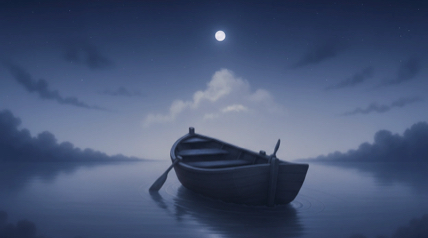
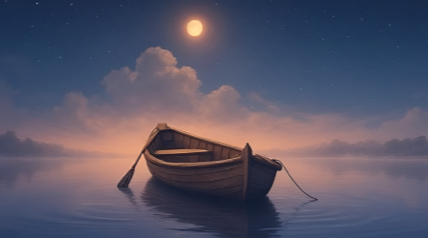
Update

diff --git a/programme.html b/programme.html
@@ -20,36 +20,53 @@ permalink: /programme/
 
 <section class="section etapes">
   <div class="container">
-    <div class="columns is-multiline">
-      <div class="column is-4 phase phase-separation">
-        <img class="has-rounded-corners-small"
-            src="/images/programme-separation.jpg"
-            srcset="/images/programme-separation.jpg, /images/programme-separation@2x.jpg 2x"
-            alt="La séparation, une barque s'éloigne">
-        <h5>La séparation</h5>
-      {% for etape in phase_1 %}
-        {% include bandeaux/etape.html etape=etape %}
-      {% endfor %}
+    <div class="box phase phase-separation">
+      <div class="columns is-multiline">
+        <div class="column is-one-third">
+          <h4>La séparation</h4>
+          <h5>Reconnaître le seuil et libérer ce qui retient</h5>
+          <p class="tags"><span class="tag is-white">Mois 1</span><span class="tag is-white">Étapes 1-2</span></p>
+        </div>
+        <div class="column is-two-third">
+          <div class="columns is-multiline">
+            {% for etape in phase_1 %}
+            <div class="column is-4">{% include bandeaux/etape.html etape=etape %}</div>
+            {% endfor %}
+          </div>
+        </div>
       </div>
-      <div class="column is-4 phase phase-passage">
-        <img class="has-rounded-corners-small"
-            src="/images/programme-passage.jpg"
-            srcset="/images/programme-passage.jpg, /images/programme-passage@2x.jpg 2x"
-            alt="Le passage, une silhouette avance dans la brume">
-        <h5>Le passage</h5>
-      {% for etape in phase_2 %}
-        {% include bandeaux/etape.html etape=etape %}
-      {% endfor %}
+    </div>
+
+    <div class="box phase phase-passage">
+      <div class="columns is-multiline">
+        <div class="column is-one-third">
+          <h4>Le passage</h4>
+          <h5>Traverser les profondeurs et accueillir l'ombre</h5>
+          <p class="tags"><span class="tag is-white">Mois 2-3</span><span class="tag is-white">Étapes 3-5</span></p>
+        </div>
+        <div class="column is-two-third">
+          <div class="columns is-multiline">
+            {% for etape in phase_2 %}
+            <div class="column is-4">{% include bandeaux/etape.html etape=etape %}</div>
+            {% endfor %}
+          </div>
+        </div>
       </div>
-      <div class="column is-4 phase phase-enracinement">
-        <img class="has-rounded-corners-small"
-            src="/images/programme-enracinement.jpg"
-            srcset="/images/programme-enracinement.jpg, /images/programme-enracinement@2x.jpg 2x"
-            alt="L'enracinement, un arbre déploie ses racines">
-        <h5>L'enracinement</h5>
-      {% for etape in phase_3 %}
-        {% include bandeaux/etape.html etape=etape %}
-      {% endfor %}
+    </div>
+
+    <div class="box phase phase-enracinement">
+      <div class="columns is-multiline">
+        <div class="column is-one-third">
+          <h4>L'enracinement</h4>
+          <h5>Unifier et stabiliser la transformation</h5>
+          <p class="tags"><span class="tag is-white">Mois 4</span><span class="tag is-white">Étapes 6-7</span></p>
+      </div>
+      <div class="column is-two-third">
+        <div class="columns is-multiline">
+        {% for etape in phase_3 %}
+          <div class="column is-4">{% include bandeaux/etape.html etape=etape %}</div>
+        {% endfor %}
+        </div>
       </div>
     </div>
   </div>

diff --git a/_sass/ui-shared.scss b/_sass/ui-shared.scss
@@ -706,15 +706,43 @@ button.nav-chip {
    PROGRAMME
 ========================= */
 .etapes {
-  .column.phase {
+
+  .box .carte-etape {
+    box-shadow: 0 4px 30px rgba(0, 0, 0, 0.2);
+  }
+
+  .box.phase {
+    background-size: cover;
+    background-position: center;
+
+    h4,
     h5 {
-      text-align: center;
+      color: v.$white;
     }
-    img {
-      height:9rem;
-      width: 100%;
-      object-fit: cover;
+    h4 {
+      font-size: var(--bulma-size-3);
+      font-family: v.$family-serif;
     }
+    h5 {
+      font-size: var(--bulma-size-6);
+      font-family: v.$family-sans-serif;
+      margin-bottom: 0.75rem;
+    }
+  }
+
+  .box.phase-separation {
+    background-image: image-set(url("/images/programme-separation-wide.jpg") 1x,
+        url("/images/programme-separation-wide@2x.jpg") 2x);
+  }
+
+  .box.phase-passage {
+    background-image: image-set(url("/images/programme-passage-wide.jpg") 1x,
+        url("/images/programme-passage-wide@2x.jpg") 2x);
+  }
+
+  .box.phase-enracinement {
+    background-image: image-set(url("/images/programme-enracinement-wide.jpg") 1x,
+        url("/images/programme-enracinement-wide@2x.jpg") 2x);
   }
 }
 section.qui,
@@ -739,8 +767,14 @@ section.qui,
     .icon { transition: all 0.2s ease; }
     &.is-open .icon { transform: rotate(180deg); }
   }
-
   .secondaire {
+    max-height: 0;
+    overflow: hidden;
+    transition: all 0.6s ease;
+  }
+
+  .secondaire.is-visible {
+    max-height: 1000px;
     border-top: 2px solid v.$pink;
     padding-top: 0.75rem;
     margin-top: 0.75rem;

diff --git a/assets/js/main.js b/assets/js/main.js
@@ -215,16 +215,28 @@ class ExpandableToggle {
     this.buttons.forEach(button => this.bindButton(button));
   }
 
+  // toggle(button, secondary) {
+  //   const isHidden = secondary.classList.contains('is-hidden');
+  //   if (isHidden) {
+  //     secondary.classList.remove('is-hidden');
+  //     secondary.setAttribute('aria-hidden', 'false');
+  //     button.classList.add('is-open');
+  //   } else {
+  //     secondary.classList.add('is-hidden');
+  //     secondary.setAttribute('aria-hidden', 'true');
+  //     button.classList.remove('is-open');
+  //   }
+  // }
   toggle(button, secondary) {
-    const isHidden = secondary.classList.contains('is-hidden');
-    if (isHidden) {
-      secondary.classList.remove('is-hidden');
-      secondary.setAttribute('aria-hidden', 'false');
-      button.classList.add('is-open');
-    } else {
-      secondary.classList.add('is-hidden');
+    const isVisible = secondary.classList.contains('is-visible');
+    if (isVisible) {
+      secondary.classList.remove('is-visible');
       secondary.setAttribute('aria-hidden', 'true');
       button.classList.remove('is-open');
+    } else {
+      secondary.classList.add('is-visible');
+      secondary.setAttribute('aria-hidden', 'false');
+      button.classList.add('is-open');
     }
   }
 

diff --git a/_includes/bandeaux/etape.html b/_includes/bandeaux/etape.html
@@ -17,7 +17,7 @@
         </button>
     </div>
 
-    <div class="secondaire content is-hidden" aria-hidden="true">
+    <div class="secondaire content" aria-hidden="true">
         <p>{{ etape.intention }}</p>
     </div>
 

diff --git a/_sass/ui-specifics.scss b/_sass/ui-specifics.scss
@@ -359,6 +359,18 @@
       }
     }
   }
+
+
+  .etapes {
+
+    .box.phase .is-one-third {
+      text-align: center;
+
+      .tags {
+        justify-content: center;
+      }
+    }
+  }
 }
 
 /* Fine breakpoints */
